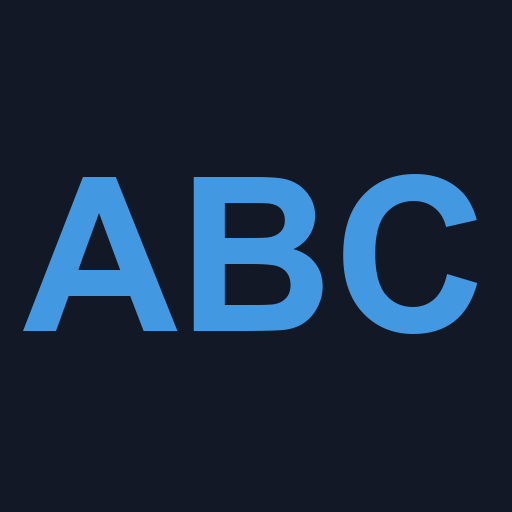
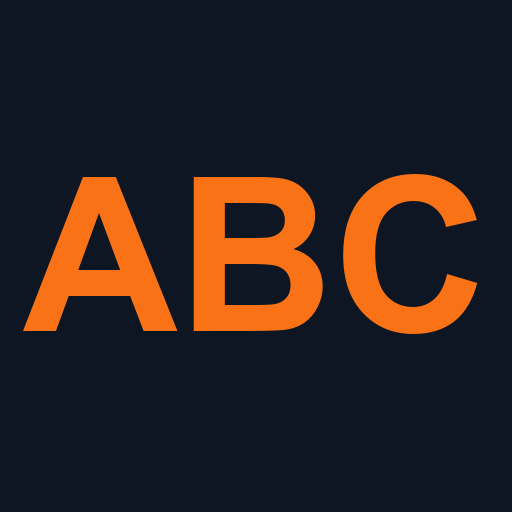
Tela do exercício (imagens + gráfico), anti-zoom e novo visual

Changed region(s): [[0.375, 0.3125, 0.9375, 0.6562], [0.0312, 0.3438, 0.3438, 0.6562]]

diff --git a/index.html b/index.html
@@ -4,7 +4,7 @@
 <meta charset="utf-8">
 <title>Treino</title>
 <meta name="viewport" content="width=device-width,initial-scale=1,viewport-fit=cover">
-<meta name="theme-color" content="#121826">
+<meta name="theme-color" content="#0f1623">
 <meta name="apple-mobile-web-app-capable" content="yes">
 <meta name="mobile-web-app-capable" content="yes">
 <meta name="apple-mobile-web-app-status-bar-style" content="black-translucent">
@@ -12,36 +12,68 @@
 <link rel="manifest" href="manifest.webmanifest">
 <link rel="apple-touch-icon" href="icon-180.png">
 <style>
-:root{--bg:#121826;--card:#1e283c;--line:#323e58;--txt:#ecf0f7;--mute:#96a3ba;--ok:#48bb78;--warn:#ffaa6e}
-*{box-sizing:border-box;-webkit-tap-highlight-color:transparent}
+/* Paleta: laranja = ação, verde = feito. Textos com contraste ≥ 4,5:1 sobre o fundo. */
+:root{--bg:#0f1623;--card:#192234;--line:#2b3750;--btn:#273449;--txt:#f8fafc;--mute:#aab6ca;
+  --primary:#f97316;--on-primary:#0f172a;--ok:#22c55e;--warn:#fdba74}
+/* manipulation = sem zoom por toque duplo/rápido (o pinça-para-zoom continua funcionando) */
+*{box-sizing:border-box;-webkit-tap-highlight-color:transparent;touch-action:manipulation}
 body{margin:0;background:var(--bg);color:var(--txt);font:17px/1.3 -apple-system,system-ui,sans-serif;
+  -webkit-user-select:none;user-select:none;font-variant-numeric:tabular-nums;
   padding:calc(12px + env(safe-area-inset-top)) 12px calc(88px + env(safe-area-inset-bottom))}
-h2{font-size:15px;color:var(--mute);margin:20px 0 8px;text-transform:uppercase;letter-spacing:.05em}
+body.lock{overflow:hidden}
+input,textarea{-webkit-user-select:text;user-select:text}
+h2{display:flex;justify-content:space-between;font-size:14px;font-weight:600;color:var(--mute);margin:20px 0 8px;text-transform:uppercase;letter-spacing:.06em}
+h3{margin:0;font-size:20px}
+h4{margin:16px 0 8px;font-size:14px;color:var(--mute);text-transform:uppercase;letter-spacing:.06em}
 .card{background:var(--card);border-radius:16px;padding:12px 14px;margin-bottom:10px}
-.row{display:flex;align-items:center;gap:6px}
+.card.done{box-shadow:inset 3px 0 0 var(--ok)}
+.card.ex{padding:2px 14px 10px}
+.row{display:flex;align-items:center;gap:8px}
 .grow{flex:1;min-width:0}
 .name{font-weight:600}
 .sub{font-size:14px;color:var(--mute)}
 .tip{color:var(--warn)}
-button{font:inherit;color:var(--txt);background:#2c3a57;border:0;border-radius:12px;min-width:42px;height:48px;padding:0 8px}
-button:active{filter:brightness(1.3)}
-button.on{background:var(--ok);color:#0b2a18;font-weight:700}
-button.pri{background:#4299e1;font-weight:700}
-input{font:inherit;font-size:18px;font-weight:700;width:54px;height:48px;text-align:center;color:var(--txt);
-  background:#121826;border:1px solid var(--line);border-radius:12px}
-textarea{width:100%;height:90px;font-size:16px;background:#121826;color:var(--txt);border:1px solid var(--line);border-radius:12px}
+button{font:inherit;color:var(--txt);background:var(--btn);border:0;border-radius:12px;min-width:44px;height:48px;padding:0 10px;
+  display:inline-flex;align-items:center;justify-content:center;cursor:pointer;transition:transform .08s,filter .08s}
+button:active{transform:scale(.95);filter:brightness(1.3)}
+button.on{background:var(--ok);color:var(--on-primary)}
+button.pri{background:var(--primary);color:var(--on-primary);font-weight:700}
+:focus-visible{outline:2px solid var(--primary);outline-offset:2px}
+.ic{width:22px;height:22px}
+.info{width:100%;height:auto;min-height:44px;padding:0;background:none;justify-content:space-between;text-align:left;border-radius:8px}
+.info .ic{color:var(--mute);width:18px;height:18px}
+.val{background:none;font-size:26px;font-weight:700}
+.ctl{margin-top:2px}
+input{font:inherit;font-size:18px;font-weight:700;width:52px;height:48px;text-align:center;color:var(--txt);
+  background:var(--bg);border:1px solid var(--line);border-radius:12px;padding:0}
+textarea{width:100%;height:90px;font-size:16px;background:var(--bg);color:var(--txt);border:1px solid var(--line);border-radius:12px}
 .chips{display:flex;gap:8px;margin-top:12px}
 .chips button{flex:1}
-.chips .sel{background:#4299e1;font-weight:700}
-nav{position:fixed;left:0;right:0;bottom:0;display:flex;background:#0d121d;border-top:1px solid var(--line);
+.chips .sel{background:var(--primary);color:var(--on-primary);font-weight:700}
+.item{width:100%;height:auto;min-height:56px;margin-bottom:10px;padding:12px 14px;border-radius:16px;background:var(--card);text-align:left;gap:8px}
+nav{position:fixed;left:0;right:0;bottom:0;z-index:5;display:flex;background:#0b111b;border-top:1px solid var(--line);
   padding-bottom:env(safe-area-inset-bottom)}
 nav button{flex:1;height:56px;border-radius:0;background:none;color:var(--mute)}
-nav .sel{color:var(--txt);font-weight:700}
-svg{width:100%;height:auto}
+nav .sel{color:var(--primary);font-weight:700}
+/* gráfico */
+.chart{width:100%;height:auto;display:block}
+.ln{fill:none;stroke:var(--primary);stroke-width:3;stroke-linejoin:round;stroke-linecap:round}
+.ar{fill:var(--primary);opacity:.14}
+.dot{fill:var(--card);stroke:var(--primary);stroke-width:3}
+.delta{color:var(--ok)}
+/* tela do exercício */
+#sheet[hidden]{display:none}
+.backdrop{position:fixed;inset:0;z-index:10;background:rgba(0,0,0,.6)}
+.sheet{position:fixed;left:0;right:0;bottom:0;z-index:11;max-height:90vh;overflow:auto;background:var(--card);
+  border-radius:20px 20px 0 0;padding:16px 16px calc(20px + env(safe-area-inset-bottom))}
+.imgs{display:grid;grid-template-columns:1fr 1fr;gap:8px;margin:12px 0}
+.imgs img{width:100%;aspect-ratio:3/2;object-fit:cover;border-radius:12px;background:var(--bg)}
+@media (prefers-reduced-motion:reduce){*{transition:none!important}}
 </style>
 </head>
 <body>
 <div id="app"></div>
+<div id="sheet" hidden></div>
 <nav>
   <button data-a="tab" data-v="hoje">Hoje</button>
   <button data-a="tab" data-v="prog">Progresso</button>
@@ -77,6 +109,12 @@ const W = {
     { id: "sideplank", n: "Prancha lateral", a: "3x20-30s/lado", bw: 1 },
     { id: "finisher", n: "Finisher bike/remo", a: "8x 30s forte/60s leve", bw: 1 } ] }
 };
+const EX = Object.values(W).flatMap((w) => w.ex);
+const exById = (id) => EX.find((e) => e.id === id);
+
+// Ícones SVG (sem emoji); sempre com aria-label no botão que os usa.
+const ic = (p, w = 3) => `<svg class="ic" viewBox="0 0 24 24" fill="none" stroke="currentColor" stroke-width="${w}" stroke-linecap="round" stroke-linejoin="round" aria-hidden="true"><path d="${p}"/></svg>`;
+const I = { check: ic("M5 12.5l4.5 4.5L19 7.5"), minus: ic("M6 12h12"), plus: ic("M12 6v12M6 12h12"), chev: ic("M9 6l6 6-6 6", 2.5), x: ic("M6 6l12 12M18 6L6 18") };
 
 const KEY = "treino-v1";
 const load = () => { try { return JSON.parse(localStorage.getItem(KEY)) || {}; } catch (e) { return {}; } };
@@ -86,6 +124,7 @@ const save = () => { try { localStorage.setItem(KEY, JSON.stringify(db)); } catc
 const pad = (n) => String(n).padStart(2, "0");
 const today = () => { const d = new Date(); return d.getFullYear() + "-" + pad(d.getMonth() + 1) + "-" + pad(d.getDate()); };
 const fmt = (n) => String(n).replace(".", ",");
+const dm = (d) => d.slice(8) + "/" + d.slice(5, 7);
 const num = (s) => { const v = parseFloat(String(s).replace(",", ".")); return isNaN(v) ? null : Math.round(v * 100) / 100; };
 const lastBW = () => db.bodyweight.length ? db.bodyweight[db.bodyweight.length - 1].kg : 65;
 
@@ -98,45 +137,58 @@ const todays = () => db.sessions.find((s) => s.d === today() && s.t === t);
 const isDone = (id) => !!todays() && todays().kg[id] != null;
 const curKg = (id) => draft[id] ?? Logic.history(db.sessions, id).slice(-1)[0] ?? null;
 
+// Gráfico de linha simples. pts = [{d, v}] em ordem de data.
+function lineChart(pts, unit, label) {
+  if (!pts.length) return `<p class="sub">Ainda sem registros.</p>`;
+  const f = pts[0], l = pts[pts.length - 1];
+  if (pts.length < 2) return `<p class="sub">Atual: <b>${fmt(l.v)} ${unit}</b>. O gráfico aparece a partir do segundo registro.</p>`;
+  const vs = pts.map((p) => p.v), lo = Math.min(...vs), hi = Math.max(...vs);
+  const X = (i) => 14 + (292 * i) / (pts.length - 1);
+  const Y = (v) => (hi === lo ? 60 : 106 - (92 * (v - lo)) / (hi - lo));
+  const line = pts.map((p, i) => X(i).toFixed(1) + "," + Y(p.v).toFixed(1)).join(" ");
+  const area = X(0).toFixed(1) + ",106 " + line + " " + X(pts.length - 1).toFixed(1) + ",106";
+  const dots = pts.map((p, i) => pts.length <= 12 || i === 0 || i === pts.length - 1 ? `<circle class="dot" cx="${X(i).toFixed(1)}" cy="${Y(p.v).toFixed(1)}" r="4"/>` : "").join("");
+  const diff = Math.round((l.v - f.v) * 100) / 100;
+  const delta = diff === 0 ? "igual" : (diff > 0 ? "+" : "−") + fmt(Math.abs(diff)) + " " + unit;
+  return `<svg class="chart" viewBox="0 0 320 120" role="img" aria-label="${label}: de ${fmt(f.v)} para ${fmt(l.v)} ${unit} em ${pts.length} registros">
+    <polygon class="ar" points="${area}"/><polyline class="ln" points="${line}"/>${dots}</svg>
+    <div class="row sub"><span class="grow">${dm(f.d)} · ${fmt(f.v)} ${unit}</span><b class="delta">${delta}</b><span class="grow" style="text-align:right">${dm(l.d)} · ${fmt(l.v)} ${unit}</span></div>`;
+}
+
+const bwPts = () => db.bodyweight.slice(-60).map((e) => ({ d: e.d, v: e.kg }));
+
 function hoje() {
   const bwSaved = db.bodyweight.some((e) => e.d === today() && e.kg === bw);
+  const doneN = W[t].ex.filter((e) => isDone(e.id)).length;
   let h = `<h2>Peso corporal</h2><div class="card row">
-    <button data-a="bw" data-v="-0.1">−</button>
-    <div class="grow" style="text-align:center;font-size:26px;font-weight:700">${fmt(bw.toFixed(1))} kg</div>
-    <button data-a="bw" data-v="0.1">+</button>
-    <button class="${bwSaved ? "on" : "pri"}" data-a="bwsave">${bwSaved ? "✓" : "Salvar"}</button></div>`;
-  h += `<div class="chips">` + Object.keys(W).map((k) => `<button class="${k === t ? "sel" : ""}" data-a="treino" data-v="${k}">${k}</button>`).join("") + `</div>`;
-  h += `<h2>${W[t].n}</h2>`;
+    <button data-a="bw" data-v="-0.1" aria-label="Diminuir peso corporal">${I.minus}</button>
+    <button class="val grow" data-a="info" data-id="bw" aria-label="Ver histórico do peso corporal">${fmt(bw.toFixed(1))} kg</button>
+    <button data-a="bw" data-v="0.1" aria-label="Aumentar peso corporal">${I.plus}</button>
+    <button class="${bwSaved ? "on" : "pri"}" data-a="bwsave" aria-label="Salvar peso corporal">${bwSaved ? I.check : "Salvar"}</button></div>`;
+  h += `<div class="chips">` + Object.keys(W).map((k) => `<button class="${k === t ? "sel" : ""}" data-a="treino" data-v="${k}" aria-pressed="${k === t}" aria-label="Treino ${k}">${k}</button>`).join("") + `</div>`;
+  h += `<h2><span>${W[t].n}</span><span>${doneN}/${W[t].ex.length}</span></h2>`;
   for (const e of W[t].ex) {
     const done = isDone(e.id), kg = curKg(e.id);
     const up = !done && !e.bw && Logic.suggestUp(Logic.history(db.sessions, e.id));
-    h += `<div class="card row"><div class="grow"><div class="name">${e.n}</div>
-      <div class="sub">${e.a}${up ? ` <span class="tip">· tente +${fmt(e.s)} kg</span>` : ""}</div></div>`;
-    if (!e.bw) h += `<button data-a="step" data-id="${e.id}" data-v="-1">−</button>
-      <input inputmode="decimal" data-a="type" data-id="${e.id}" value="${kg == null ? "" : fmt(kg)}" placeholder="kg">
-      <button data-a="step" data-id="${e.id}" data-v="1">+</button>`;
-    h += `<button class="${done ? "on" : ""}" data-a="done" data-id="${e.id}">✓</button></div>`;
+    h += `<div class="card ex ${done ? "done" : ""}">
+      <button class="info" data-a="info" data-id="${e.id}" aria-label="Ver ${e.n}: imagem e progressão"><span class="name">${e.n}</span>${I.chev}</button>
+      <div class="row ctl"><div class="grow sub">${e.a}${up ? ` <span class="tip">· tente +${fmt(e.s)} kg</span>` : ""}</div>`;
+    if (!e.bw) h += `<button data-a="step" data-id="${e.id}" data-v="-1" aria-label="Diminuir carga de ${e.n}">${I.minus}</button>
+      <input inputmode="decimal" data-a="type" data-id="${e.id}" value="${kg == null ? "" : fmt(kg)}" placeholder="kg" aria-label="Carga de ${e.n} em kg">
+      <button data-a="step" data-id="${e.id}" data-v="1" aria-label="Aumentar carga de ${e.n}">${I.plus}</button>`;
+    h += `<button class="${done ? "on" : ""}" data-a="done" data-id="${e.id}" aria-pressed="${done}" aria-label="Marcar ${e.n} como feito">${I.check}</button></div></div>`;
   }
   return h;
 }
 
-function chart() {
-  const p = db.bodyweight.slice(-30);
-  if (p.length < 2) return `<div class="card sub">Registre o peso em pelo menos 2 dias para ver o gráfico.</div>`;
-  const ys = p.map((e) => e.kg), lo = Math.min(...ys) - 0.5, hi = Math.max(...ys) + 0.5;
-  const pts = p.map((e, i) => (10 + (300 * i) / (p.length - 1)).toFixed(1) + "," + (100 - (90 * (e.kg - lo)) / (hi - lo)).toFixed(1)).join(" ");
-  return `<div class="card"><svg viewBox="0 0 320 110"><polyline points="${pts}" fill="none" stroke="#4299e1" stroke-width="3" stroke-linejoin="round"/></svg>
-    <div class="row sub"><span class="grow">${p[0].d.slice(5)}: ${fmt(p[0].kg)} kg</span><span>${p[p.length - 1].d.slice(5)}: ${fmt(p[p.length - 1].kg)} kg</span></div></div>`;
-}
-
 function prog() {
-  let h = `<h2>Peso corporal</h2>` + chart() + `<h2>Cargas (primeira → atual)</h2>`;
-  for (const k of Object.keys(W)) for (const e of W[k].ex) {
+  let h = `<h2>Peso corporal</h2><div class="card">${lineChart(bwPts(), "kg", "Peso corporal")}</div><h2>Cargas · toque para ver o gráfico</h2>`;
+  for (const e of EX) {
     if (e.bw) continue;
     const hs = Logic.history(db.sessions, e.id);
     if (!hs.length) continue;
-    h += `<div class="card row"><div class="grow"><div class="name">${e.n}</div><div class="sub">${hs.slice(-5).map(fmt).join(" · ")}</div></div>
-      <div style="font-weight:700">${fmt(hs[0])} → ${fmt(hs[hs.length - 1])}</div></div>`;
+    h += `<button class="item" data-a="info" data-id="${e.id}" aria-label="Ver progressão de ${e.n}"><span class="grow"><span class="name">${e.n}</span><br><span class="sub">${hs.slice(-5).map(fmt).join(" · ")}</span></span>
+      <b>${fmt(hs[0])} → ${fmt(hs[hs.length - 1])}</b>${I.chev}</button>`;
   }
   if (!db.sessions.length) h += `<div class="card sub">Nenhum treino registrado ainda.</div>`;
   const n = db.lastBackup ? Logic.daysBetween(db.lastBackup, today()) : null;
@@ -144,9 +196,23 @@ function prog() {
   const hasData = db.sessions.length || db.bodyweight.length;
   h += `<h2>Backup</h2>` + (hasData ? `<div class="sub ${late ? "tip" : ""}" style="margin-bottom:8px">${n == null ? "Você ainda não fez backup" : n === 0 ? "Último backup: hoje" : "Último backup: há " + n + " dias"}${late ? " · copie um agora" : ""}</div>` : "");
   h += `<div class="card"><button data-a="export" style="width:100%">Copiar backup</button>
-    <textarea id="imp" placeholder="Cole aqui um backup para restaurar" style="margin-top:10px"></textarea>
+    <textarea id="imp" aria-label="Backup para restaurar" placeholder="Cole aqui um backup para restaurar" style="margin-top:10px"></textarea>
     <button data-a="import" style="width:100%;margin-top:8px">Restaurar</button></div>`;
   return h;
+}
+
+// Tela do exercício (ou do peso corporal): imagens do movimento + gráfico da progressão.
+function sheetHTML(id) {
+  const e = id === "bw" ? null : exById(id);
+  const title = e ? e.n : "Peso corporal";
+  let body;
+  if (e) {
+    const pts = e.bw ? [] : db.sessions.filter((s) => s.kg[id] != null).map((s) => ({ d: s.d, v: s.kg[id] }));
+    body = `<div class="imgs">` + [0, 1].map((i) => `<img src="img/${id}-${i}.jpg" width="360" height="240" alt="${e.n}: ${i ? "posição final" : "posição inicial"}" onerror="this.style.visibility='hidden'">`).join("") + `</div>
+      <div class="sub">Alvo: ${e.a}</div>` + (e.bw ? "" : `<h4>Progressão da carga</h4>` + lineChart(pts, "kg", title));
+  } else body = `<h4>Histórico</h4>` + lineChart(bwPts(), "kg", title);
+  return `<div class="backdrop" data-a="close"></div><section class="sheet" role="dialog" aria-modal="true" aria-label="${title}">
+    <div class="row"><h3 class="grow">${title}</h3><button data-a="close" aria-label="Fechar">${I.x}</button></div>${body}</section>`;
 }
 
 function render() {
@@ -156,7 +222,7 @@ function render() {
 
 // Grava a carga atual do exercício na sessão de hoje (ou remove se já estava feito).
 function setDone(id, on) {
-  const kg = W[t].ex.find((e) => e.id === id).bw ? 0 : curKg(id);
+  const kg = exById(id).bw ? 0 : curKg(id);
   if (on && kg == null) { // sem carga não marca: leva o foco para digitar
     document.querySelector(`input[data-id="${id}"]`).focus();
     return true; // sem re-render (senão o foco some)
@@ -176,7 +242,7 @@ const act = {
     save();
   },
   step: (d) => {
-    const e = W[t].ex.find((x) => x.id === d.id), cur = curKg(d.id) ?? 0;
+    const e = exById(d.id), cur = curKg(d.id) ?? 0;
     draft[d.id] = Math.max(0, Math.round((cur + +d.v * e.s) * 100) / 100);
     if (isDone(d.id)) setDone(d.id, true); // já marcado: atualiza direto
   },
@@ -187,9 +253,23 @@ const act = {
     if (isDone(d.id)) setDone(d.id, true);
   },
   done: (d) => setDone(d.id, !isDone(d.id)),
+  info: (d) => {
+    const s = document.getElementById("sheet");
+    s.innerHTML = sheetHTML(d.id);
+    s.hidden = false;
+    document.body.classList.add("lock");
+    s.querySelector("button").focus();
+    return true;
+  },
+  close: () => {
+    const s = document.getElementById("sheet");
+    s.hidden = true; s.innerHTML = "";
+    document.body.classList.remove("lock");
+    return true;
+  },
   export: () => {
     const s = JSON.stringify(db);
-    (navigator.clipboard ? navigator.clipboard.writeText(s) : Promise.reject()).then(() => { db.lastBackup = today(); save(); alert("Backup copiado. Cole em Notas/WhatsApp."); render(); },() => { document.getElementById("imp").value = s; alert("Copie o texto da caixa abaixo."); });
+    (navigator.clipboard ? navigator.clipboard.writeText(s) : Promise.reject()).then(() => { db.lastBackup = today(); save(); alert("Backup copiado. Cole em Notas/WhatsApp."); render(); }, () => { document.getElementById("imp").value = s; alert("Copie o texto da caixa abaixo."); });
     return true; // sem re-render (preserva o texto)
   },
   import: () => {
@@ -203,13 +283,14 @@ const act = {
 };
 
 document.addEventListener("click", (ev) => {
-  const el = ev.target.closest("button[data-a]");
+  const el = ev.target.closest("button[data-a],.backdrop[data-a]");
   if (el && !act[el.dataset.a](el.dataset, el)) render();
 });
 document.addEventListener("change", (ev) => {
   const el = ev.target.closest("input[data-a]");
   if (el) { act.type(el.dataset, el); render(); }
 });
+document.addEventListener("keydown", (ev) => { if (ev.key === "Escape") act.close(); });
 
 // O iOS retoma o app em vez de reabri-lo: ao voltar em um dia novo, recalcula o treino e o peso.
 let shownDay = today();
